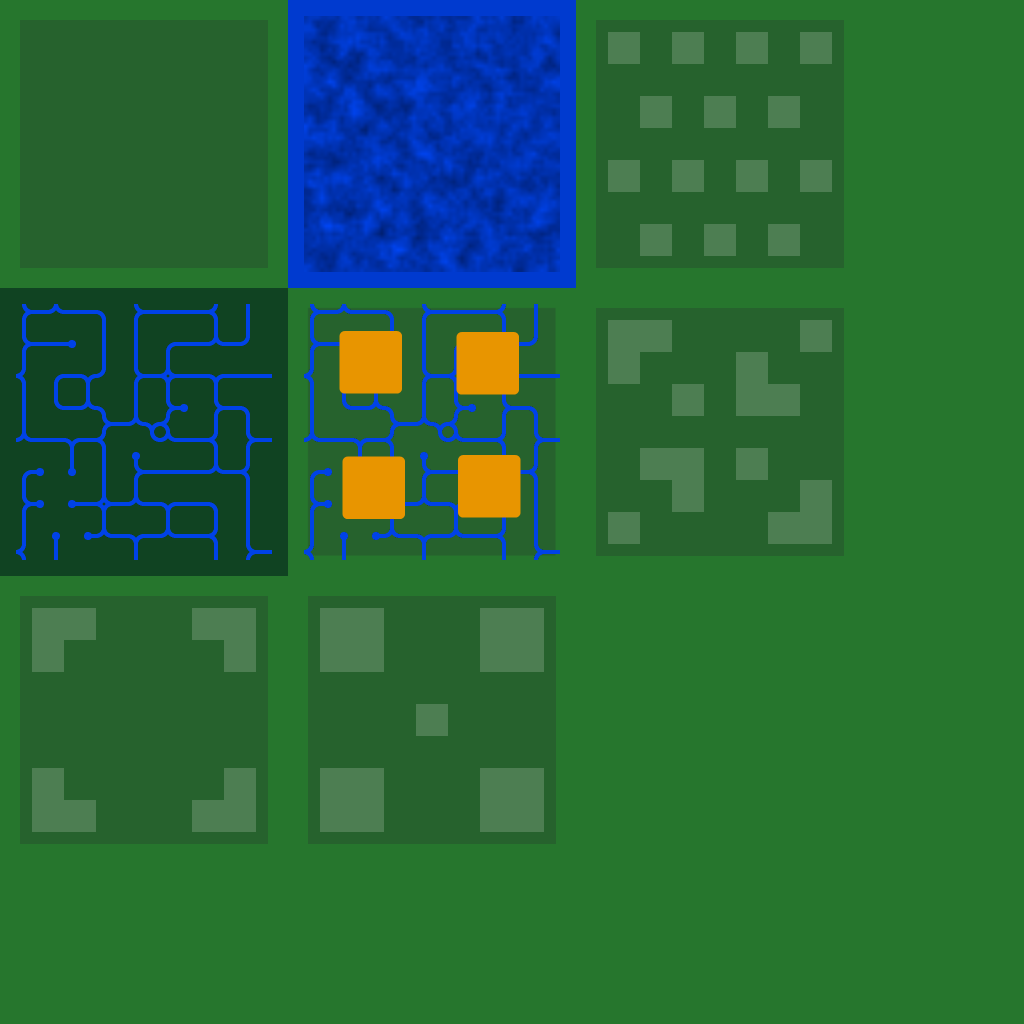
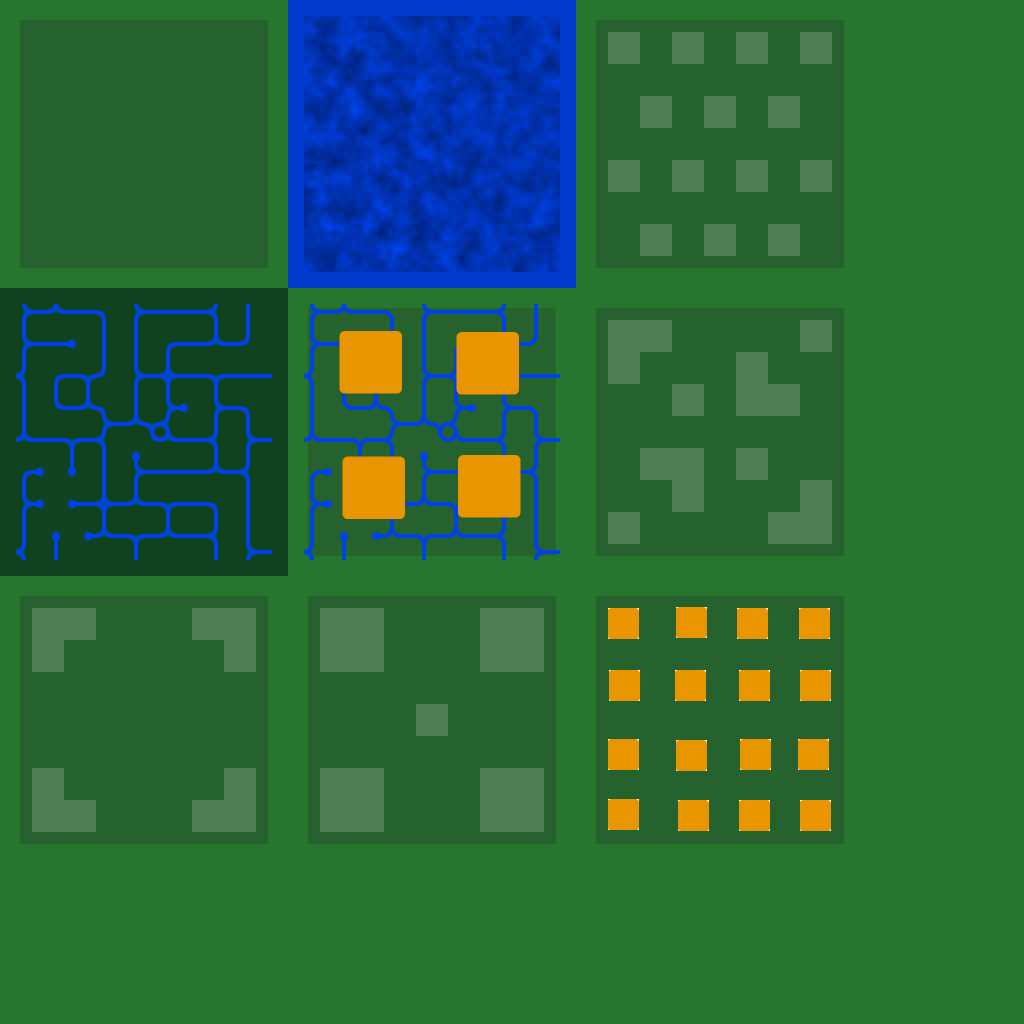
porch rendering code. needs debugging

diff --git a/scenes/gamescene.cpp b/scenes/gamescene.cpp
@@ -612,7 +612,6 @@ bool GameScene::FreeCameraMode()
 	bool button = freeCameraButton.Down();
 	Chit* playerChit = sim->GetPlayerChit();
 	bool coreMode = coreToggle.Down();
-//	CoreScript* coreMode = sim->GetChitBag()->IsBoundToCore( playerChit, true );
 	
 	if ( button || coreMode || (!playerChit) )
 		return true;
@@ -675,18 +674,6 @@ void GameScene::ItemTapped( const gamui::UIItem* item )
 			sim->GetChitBag()->NewWorkerChit( coreChit->GetSpatialComponent()->GetPosition(), team );
 		}
 	}
-	/*
-	else if ( item == &corePrimeToggle ) {
-		// Should be disabled unless we are bound to a core.
-		Chit* playerChit = sim->GetPlayerChit();
-		if ( playerChit ) {
-			CoreScript* coreMode   = sim->GetChitBag()->IsBoundToCore( playerChit, true );
-			if ( coreMode ) {
-				GLASSERT( !playerChit->GetMoveComponent() );
-				playerChit->Add( new PathMoveComponent( sim->GetWorldMap() ));
-			}
-		}
-	}*/
 	else if ( item == faceWidget.GetButton() ) {
 		Chit* playerChit = sim->GetPlayerChit();
 		if ( playerChit && playerChit->GetItemComponent() ) {			
@@ -718,7 +705,7 @@ void GameScene::ItemTapped( const gamui::UIItem* item )
 			}
 		}
 	}
-	if ( item == &freeCameraButton ) {
+	if ( item == &freeCameraButton || item == &coreToggle ) {
 		// Set it to track nothing; if it needs to track something, that will
 		// be set by future mouse actions or DoTick
 		CameraComponent* cc = sim->GetChitBag()->GetCamera( sim->GetEngine() );
@@ -983,14 +970,12 @@ void GameScene::DoTick( U32 delta )
 
 	SetBars();
 
-//	CoreScript* coreMode = sim->GetChitBag()->IsBoundToCore( playerChit, true );
 	bool coreMode = coreToggle.Down();
 	for( int i=0; i<NUM_BUILD_MODES; ++i ) {
 		modeButton[i].SetVisible( coreMode != 0 );
 	}
 	tabBar.SetVisible( modeButton[0].Visible() );
 	createWorkerButton.SetVisible( coreMode != 0 );
-//	ejectButton.SetVisible( coreMode != 0 );
 
 	str.Clear();
 	if ( playerChit && coreMode ) {

diff --git a/game/worldmap.cpp b/game/worldmap.cpp
@@ -1888,7 +1888,8 @@ void WorldMap::PrepGrid( const SpaceTree* spaceTree )
 	#define BLACKMAG_X(x)	float( double(x*256 + x*32 + 16) / 1024.0)
 	#define BLACKMAG_Y(y)   float( 0.75 - double(y*256 + y*32 + 16) / 1024.0)
 
-	static const Vector2F UV[WorldGrid::NUM_LAYERS+WorldGrid::NUM_PAVE] = {
+	static const int NUM = WorldGrid::NUM_LAYERS+WorldGrid::NUM_PAVE+1;
+	static const Vector2F UV[] = {
 		{ BLACKMAG_X(1), BLACKMAG_Y(0) },	// water
 		{ BLACKMAG_X(0), BLACKMAG_Y(1) },	// grid
 		{ BLACKMAG_X(1), BLACKMAG_Y(1) },	// port
@@ -1896,6 +1897,7 @@ void WorldMap::PrepGrid( const SpaceTree* spaceTree )
 		{ BLACKMAG_X(0), BLACKMAG_Y(2) },	// pave1
 		{ BLACKMAG_X(2), BLACKMAG_Y(0) },	// pave2
 		{ BLACKMAG_X(2), BLACKMAG_Y(1) },	// pave3
+		{ BLACKMAG_X(2), BLACKMAG_Y(2) },	// porch
 	};
 	static const float du = 0.25f;
 	static const float dv = 0.25f;	
@@ -1920,6 +1922,9 @@ void WorldMap::PrepGrid( const SpaceTree* spaceTree )
 					int layer = wg.Layer();
 					if ( layer == WorldGrid::LAND ) {
 						layer += wg.Pave();
+						if ( wg.IsPorch() ) {
+							layer = NUM-1;
+						}
 					}
 
 					Vertex* vArr = voxelBuffer.PushArr( 4 );

diff --git a/grinliz/glrectangle.h b/grinliz/glrectangle.h
@@ -279,6 +279,32 @@ struct Rectangle2I : public Rectangle2< int >
 	void SetInvalid()	{ min.x = INVALID + 1; max.x = INVALID; min.y = INVALID + 1; max.y = INVALID; }
 };
 
+class Rectangle2IEdgeIterator
+{
+public:
+	Rectangle2IEdgeIterator( const Rectangle2I& r ) : bounds(r), point(r.min), dx(1), dy(0) {}
+
+	void Begin()	{ dx = 1; dy = 0; point = bounds.min; }
+	bool Done()		{ return dy == -1 && point == bounds.min; }
+	void Next()		{ 
+		point.x += dx; point.y += dy; 
+		if ( !bounds.Contains( point )) {
+			point.x -= dx; point.y -= dy;
+			int tx = -dy;
+			int ty = dx;
+			dx = tx; dy = ty;
+			point.x += dx; point.y += dy;
+		}
+	}
+	const Vector2I& Pos() const { return point; }
+
+private:
+	Rectangle2I bounds;
+	Vector2I point;
+	int dx, dy;
+};
+
+
 struct Rectangle2F : public Rectangle2< float >
 {
 	Rectangle2F() { min.Zero(); max.Zero(); }

diff --git a/game/worldgrid.h b/game/worldgrid.h
@@ -38,6 +38,7 @@ private:
 	unsigned isPort				: 1;
 	unsigned isCore				: 1;
 	unsigned pave				: 2;	// 0-3, the pave style, if >0
+	unsigned isPorch			: 1;	// only used for rendering
 
 	unsigned nominalRockHeight	: 2;	// 0-3
 	unsigned rockType			: 1;	// ROCK, ICE
@@ -104,6 +105,7 @@ public:
 	bool IsPort() const			{ return isPort != 0; }
 	bool IsGrid() const			{ return isGrid != 0; }
 	bool IsCore() const			{ return isCore != 0; }
+	bool IsPorch() const		{ return isPorch != 0; }
 
 	enum {
 		WATER,
@@ -125,6 +127,9 @@ public:
 		GLASSERT( p >=0 && p < NUM_PAVE );
 		GLASSERT( Layer() == LAND );
 		pave = p;
+	}
+	void SetPorch( bool on ) {
+		isPorch = on ? 1 : 0;
 	}
 
 	void SetLand( bool land )	{ if ( land ) SetLand(); else SetWater(); }

diff --git a/game/mapspatialcomponent.cpp b/game/mapspatialcomponent.cpp
@@ -69,11 +69,26 @@ void MapSpatialComponent::SetBuilding( bool b )
 }
 
 
+
+void MapSpatialComponent::UpdatePorch( const grinliz::Rectangle2I& bounds )
+{
+	Rectangle2I b = bounds;
+	b.Outset( 1 );
+	Rectangle2IEdgeIterator it( b );
+
+	for( it.Begin(); !it.Done(); it.Next() ) {
+		Chit* porch = chitBag->QueryPorch( it.Pos() );
+		worldMap->SetPorch( it.Pos().x, it.Pos().y, porch != 0 );
+	}
+}
+
+
 void MapSpatialComponent::OnAdd( Chit* chit )
 {
 	super::OnAdd( chit );
 	if ( building ) {
 		chitBag->AddToBuildingHash( this, bounds.min.x, bounds.min.y ); 
+		UpdatePorch( bounds );
 	}
 
 	if ( mode == GRID_BLOCKED ) {
@@ -102,6 +117,7 @@ void MapSpatialComponent::OnRemove()
 			}
 		}
 	}
+	UpdatePorch( bounds );
 }
 
 

diff --git a/game/aicomponent.cpp b/game/aicomponent.cpp
@@ -738,6 +738,7 @@ bool AIComponent::RockBreak( const grinliz::Vector2I& rock )
 	GLOUTPUT(( "Destroy something at %d,%d\n", rock.x, rock.y ));
 	ComponentSet thisComp( parentChit, Chit::RENDER_BIT | 
 		                               Chit::SPATIAL_BIT |
+									   Chit::ITEM_BIT |
 									   ComponentSet::IS_ALIVE |
 									   ComponentSet::NOT_IN_IMPACT );
 	if ( !thisComp.okay ) 

diff --git a/ai/tasklist.cpp b/ai/tasklist.cpp
@@ -184,6 +184,12 @@ void TaskList::DoTasks( Chit* chit, WorkQueue* workQueue, U32 delta, U32 since )
 				// Plan has gone bust:
 				taskList.Clear();
 			}
+
+			// No matter if successful or not, we need to clear the work item.
+			// The work is done or can't be done.
+			if ( workQueue ) {
+				workQueue->Remove( pos2i );
+			}
 		}
 		break;
 

diff --git a/game/workqueue.h b/game/workqueue.h
@@ -50,7 +50,6 @@ public:
 
 	void Serialize( XStream* xs );
 	void AddAction( const grinliz::Vector2I& pos, int action );	// add an action to do
-	//void AddClear( const grinliz::Vector2I& pos );
 	void Remove( const grinliz::Vector2I& pos );
 	
 	const QueueItem*	Find( const grinliz::Vector2I& chitPos );	// find something to do. don't hold pointer!

diff --git a/game/workqueue.cpp b/game/workqueue.cpp
@@ -326,9 +326,8 @@ bool WorkQueue::TaskCanComplete( const WorkQueue::QueueItem& item )
 			// stuff in the way
 			return false;
 		}
-		// pavement blocks building...iffy:
-		if ( wg.Pave() )
-			return false;
+
+		
 	}
 	else {
 		if ( passable == size*size && removable == 0 ) {

diff --git a/game/worldmap.h b/game/worldmap.h
@@ -109,6 +109,10 @@ public:
 			grid[index].SetPave(pave);
 		}
 	}
+	void SetPorch( int x, int y, bool on ) {
+		int index = INDEX( x, y );
+		grid[index].SetPorch( on );
+	}
 
 	const WorldGrid& GetWorldGrid( int x, int y ) { return grid[INDEX(x,y)]; }
 

diff --git a/game/mapspatialcomponent.h b/game/mapspatialcomponent.h
@@ -58,6 +58,8 @@ public:
 	MapSpatialComponent* nextBuilding;
 
 private:
+	void UpdatePorch( const grinliz::Rectangle2I& bounds );
+
 	int						mode;
 	bool					building;	// is this a building?
 	grinliz::Rectangle2I	bounds;
